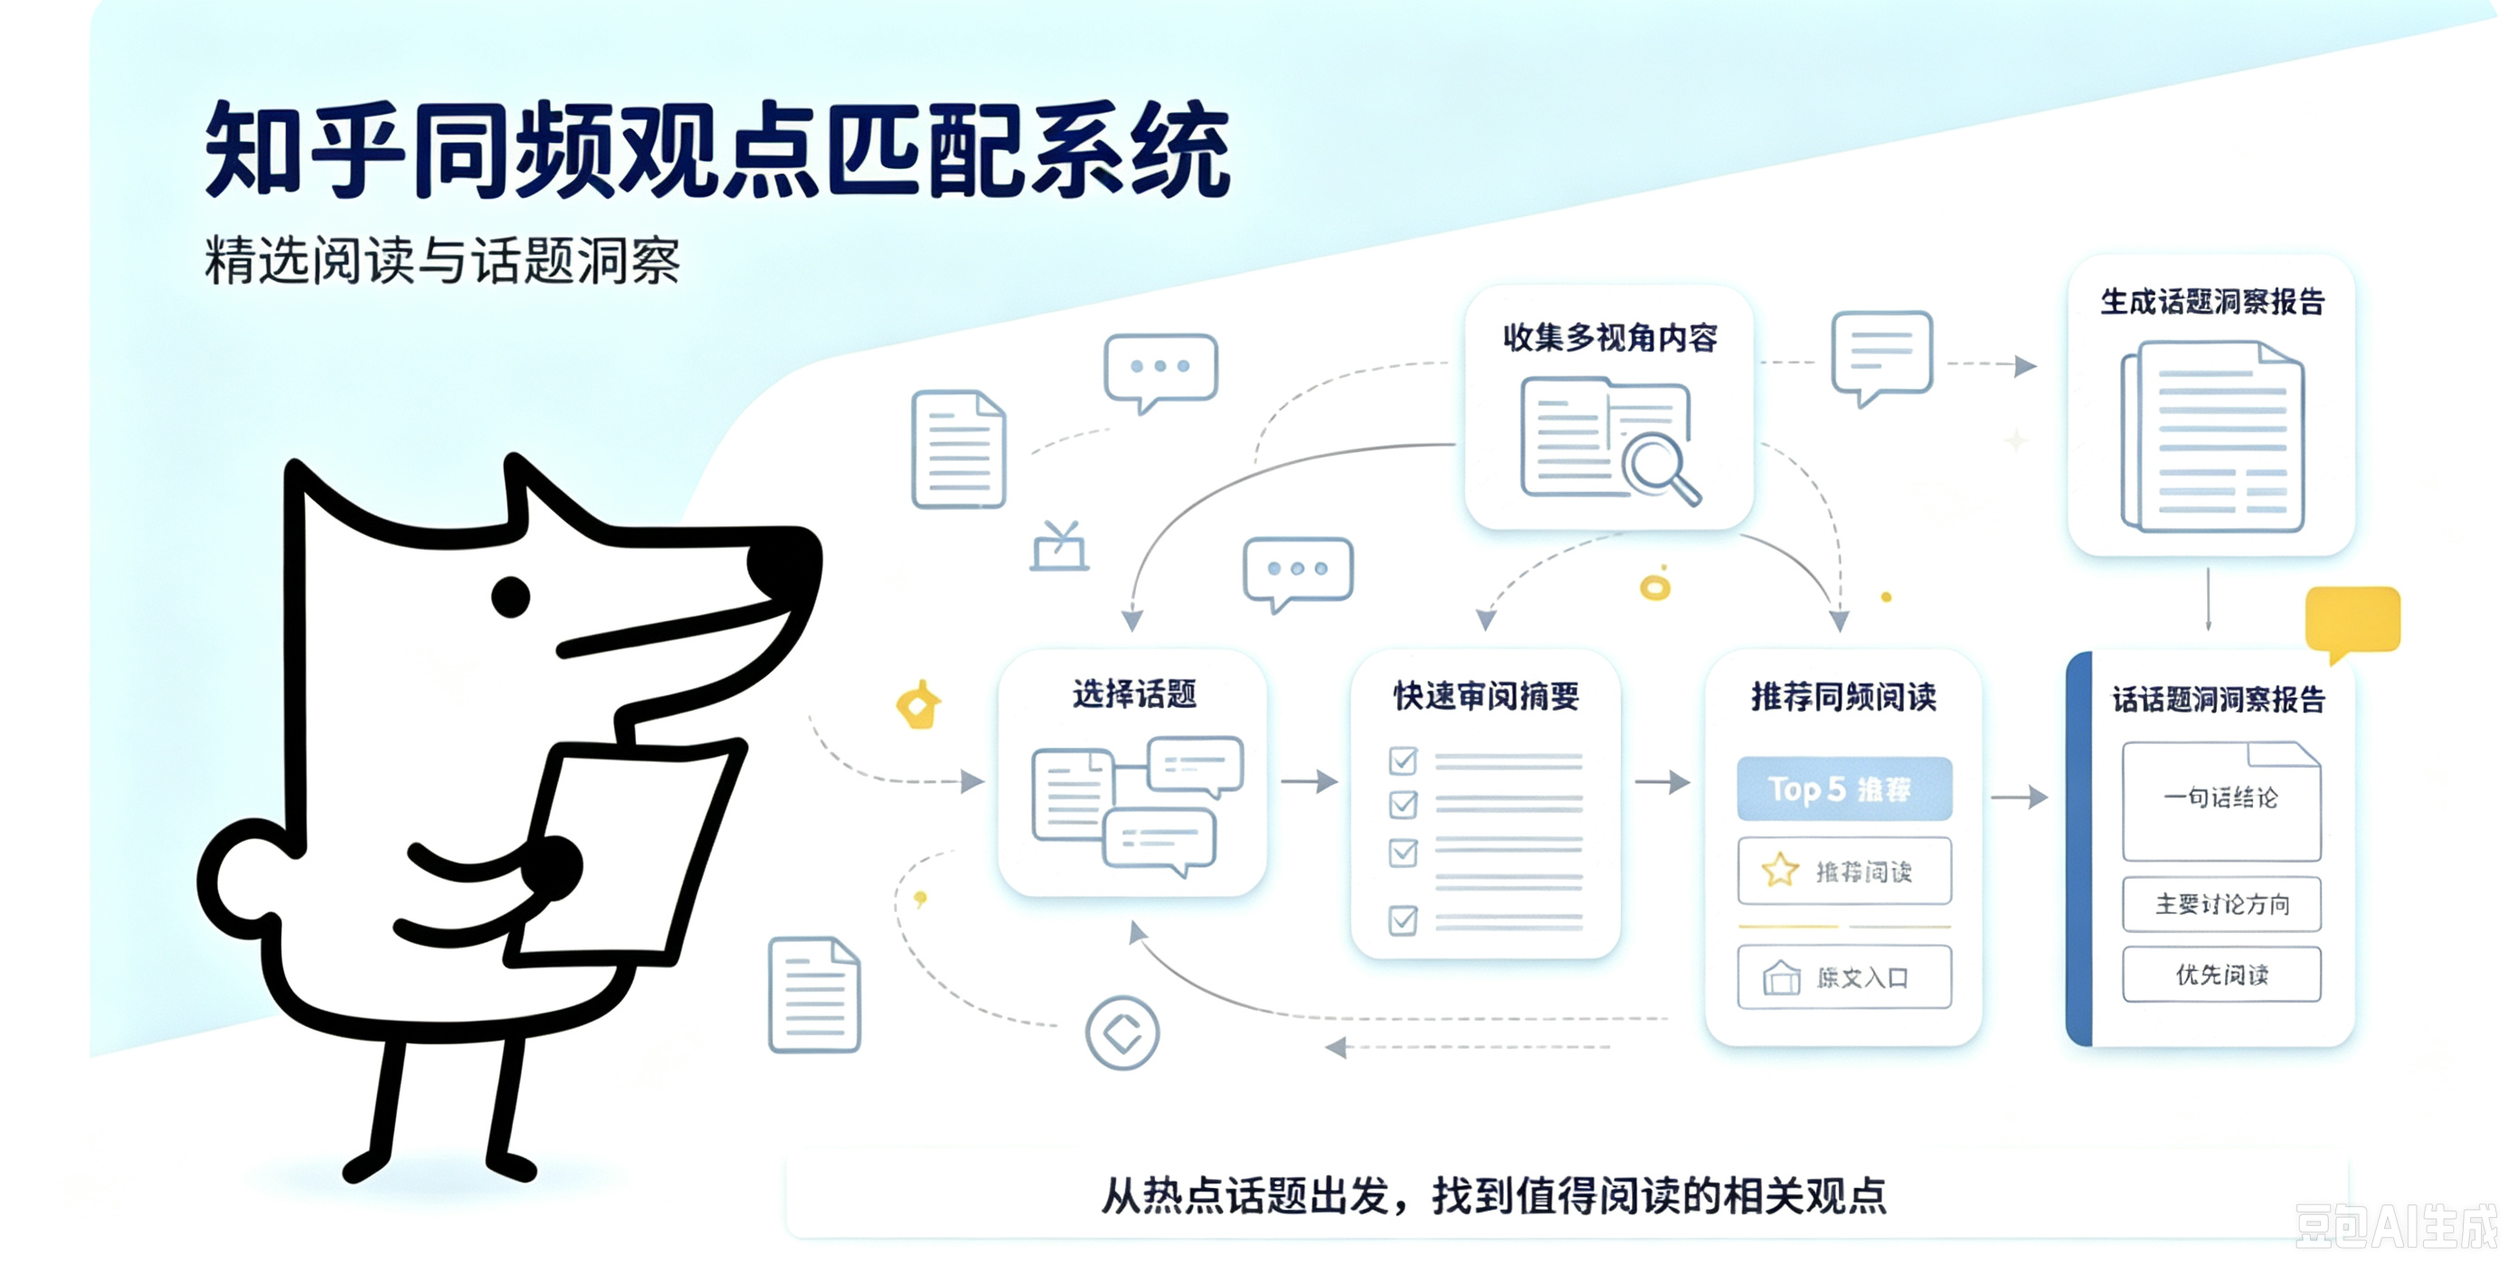
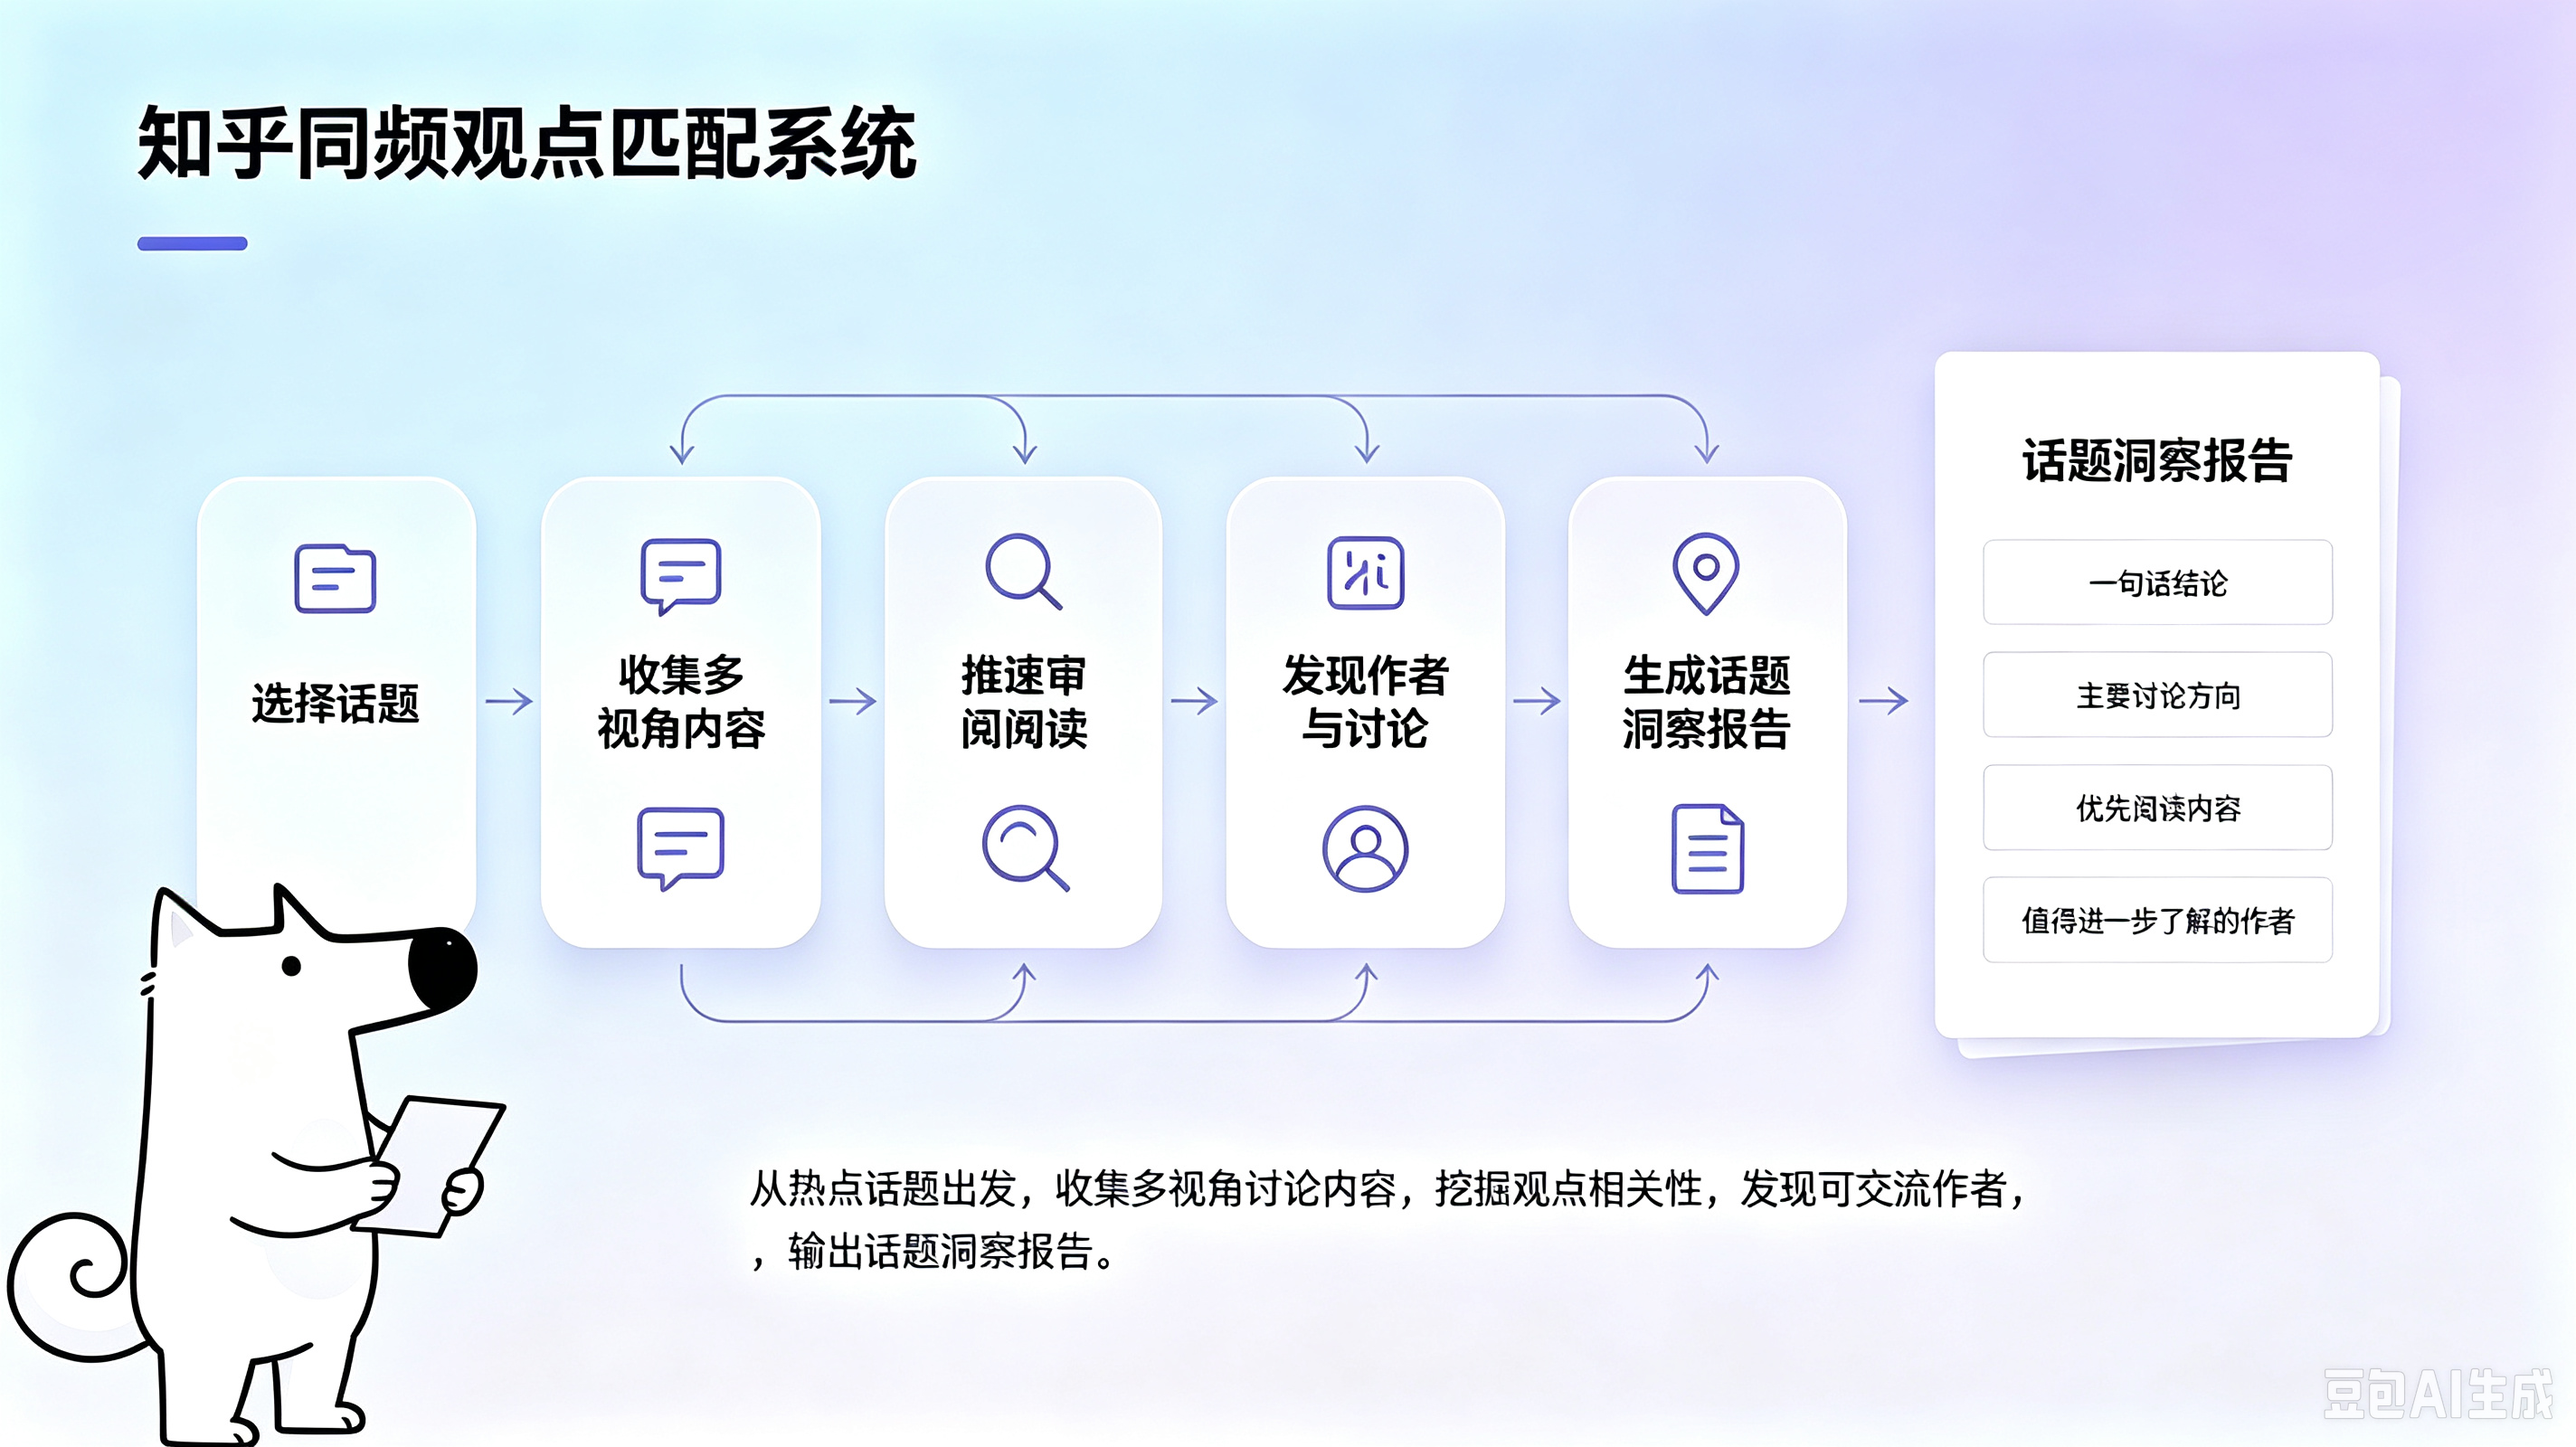
初始提交：知乎OAuth Next项目基础代码

diff --git a/README.md b/README.md
@@ -43,7 +43,8 @@
 - 多角度检索：保存内容来源、作者展示信息和检索角度。
 - 内容审阅：稳定的“对象 N”编号、摘要展开、原文跳转。
 - 内容匹配：TF-IDF 正文余弦、候选排序、共同特征贡献。
-- 报告下载：JSON 详细快照与 Markdown 客户摘要报告，包含推荐阅读和分析边界。
+- 作者线索与关系筹备：从高相关内容中提取作者昵称和原文链接，生成“值得进一步了解的作者”候选卡、开场问题、邀请草稿、待联系名单和讨论筹备卡；不自动关注、私信或建群。
+- 报告下载：JSON 详细快照与 Markdown 客户摘要报告，包含推荐阅读、作者线索和分析边界。
 
 当前匹配对象是搜索内容，不是已验证身份的用户。
 
@@ -70,9 +71,10 @@ python -m streamlit run home.py
 | 2 / 5 | 收集内容 | 选择检索角度，点击检索；至少得到一条有效内容 |
 | 3 / 5 | 快速阅读 | 审阅摘要与来源；至少两条内容才能进入匹配 |
 | 4 / 5 | 探索关系 | 客户选择一条喜欢阅读的内容，系统计算其与池内其他内容的相似度并推荐 Top 结果 |
-| 5 / 5 | 导出报告 | 查看一句话结论、主要方向、优先阅读内容，并下载 JSON / Markdown |
+| 5 / 6 | 发现作者与讨论 | 从相关内容中整理作者昵称、原文入口、开场问题和讨论候选；身份需人工核对 |
+| 6 / 6 | 导出报告 | 查看一句话结论、主要方向、优先阅读内容和作者线索，并下载 JSON / Markdown |
 
-检索角度为背景与事实、质疑与风险、实践经验、行业影响、普通人体验。标签代表搜索意图，不代表搜索结果经过立场分类。新流程暂不进行自动内容聚类或角度二次分类。
+检索角度为背景与事实、质疑与风险、实践经验、行业影响、普通人体验。标签代表搜索意图，不代表搜索结果经过立场分类。新流程暂不进行自动内容聚类或角度二次分类。第 5 步会从匹配结果中筛选有昵称和有效知乎原文链接的内容作者线索，但作者昵称不等于唯一身份。
 
 ## 旧版流程说明（不在当前主导航中）
 1. 在“用户画像解析”页面输入关键词，生成画像并加入候选池。
@@ -118,9 +120,17 @@ python -m streamlit run home.py
 
 客户端密钥读取顺序：显式参数 → `ZHIHU_ACCESS_SECRET` 环境变量 → 项目根目录 `env` 文件。CLI 密钥链与此 Python 客户端不自动互通。不要提交 `env` 或凭证；历史代码中已有硬编码密钥和调试输出的风险，公开部署前应移除并轮换已暴露凭证。
 
+## 作者候选与关系建立
+
+当前产品链路已经从“推荐相似内容”延伸到“从内容发现值得交流的作者”。第 5 步会为 Top 相关内容生成候选卡，包含作者昵称、内容标题、内容相关分、推荐依据、共同/补充检索角度、建议开场问题和知乎原文链接。客户应先打开原文核对作者和内容归属，再自行决定关注、留言或邀请讨论。
+
+系统支持编辑邀请文案、保存当前会话内的待联系名单、记录手动交流状态和备注、选择多个候选内容生成讨论议程，并导出公开版 HTML 话题卡。分享卡只包含话题、议程和公开来源，不包含私人笔记、联系状态或私人邀请草稿。
+
+以下能力尚未接入：自动关注、自动私信、真实群聊、多用户实时对话、OAuth 身份绑定和持久化社交关系。因此界面使用“内容作者候选/作者线索”，不使用“已匹配用户”或“确定知友”等表述，也不按相同昵称合并身份。
+
 ## 客户价值与推荐逻辑
 
-客户只需要选择一个喜欢阅读的对象作为基准内容。系统不会把客户暴露给全部搜索结果，而是按正文 TF-IDF 相似度排序，默认优先推荐 Top 5。每条推荐保留对象编号、标题、相似度、作者和原文入口；共同文本特征用于解释推荐原因。
+客户只需要选择一个喜欢阅读的对象作为基准内容。系统不会把客户暴露给全部搜索结果，而是按正文 TF-IDF 相似度排序，默认优先推荐 Top 5。每条推荐保留对象编号、标题、相似度、作者和原文入口；共同文本特征用于解释推荐原因。作者推荐是在此基础上增加的关系发现层：只有同时具备正相关内容、非空作者昵称和有效知乎原文链接的结果，才进入作者线索列表。
 
 当前推荐是“相关性优先”的阅读推荐，不是用户推荐，也不是支持/反对立场判定。未来可以在相关性之外加入角度多样性、来源完整度和内容代表性，避免 Top 结果内容过度重复。
 
@@ -128,6 +138,8 @@ python -m streamlit run home.py
 - 新流程使用真实搜索摘要做词法匹配，不是 LLM 或训练型立场模型。
 - 相同热点检索也可能召回无关内容，当前未实施锚点相关性自动过滤，需要人工核对。
 - 搜索返回作者昵称不等于身份验证，也不代表取得其全部创作。
+- 作者线索对应的是一条公开内容，不一定对应一个独立用户；同一作者的多条内容可能重复出现，当前不按昵称合并。
+- 邀请文案、开场问题和讨论议程是用户可编辑的草案，系统不会代发消息或承诺对方参与。
 
 ## 可扩展方向
 - 接入经评估的文本分类或观点识别模型。
@@ -194,9 +206,9 @@ python -m streamlit run home.py
 
 第一项鼓励与基准相关，第二项惩罚与已选对象重复。λ 越高越偏同频，越低越偏主题多样性。该方法是可解释的启发式排序，不是成功率预测。
 
-### 10. 报告生成
+### 10. 作者线索与报告生成
 
-新流程报告面向客户阅读：先展示热点、候选内容数量、来源覆盖率、一句话结论、主要讨论方向和 Top 5 优先阅读内容；技术明细折叠区再提供查询计划、候选摘要、基准对象、匹配证据和算法说明。JSON 是可追溯详细快照，Markdown 是可直接分享的客户摘要，两者都明确展示分析边界，不生成未经证据支持的自动观点结论。
+新流程报告面向客户阅读：先展示热点、候选内容数量、来源覆盖率、一句话结论、主要讨论方向、Top 5 优先阅读内容和“值得进一步了解的作者”。作者卡提供内容相关分、推荐原因、建议开场问题及原文入口。技术明细折叠区再提供查询计划、候选摘要、基准对象、匹配证据和算法说明。JSON 是可追溯详细快照，Markdown 是可直接分享的客户摘要，两者都明确展示分析边界，不生成未经证据支持的自动观点结论。
 
 旧版群体报告另对主题维度求均值，该统计不在当前五步流程中。
 
